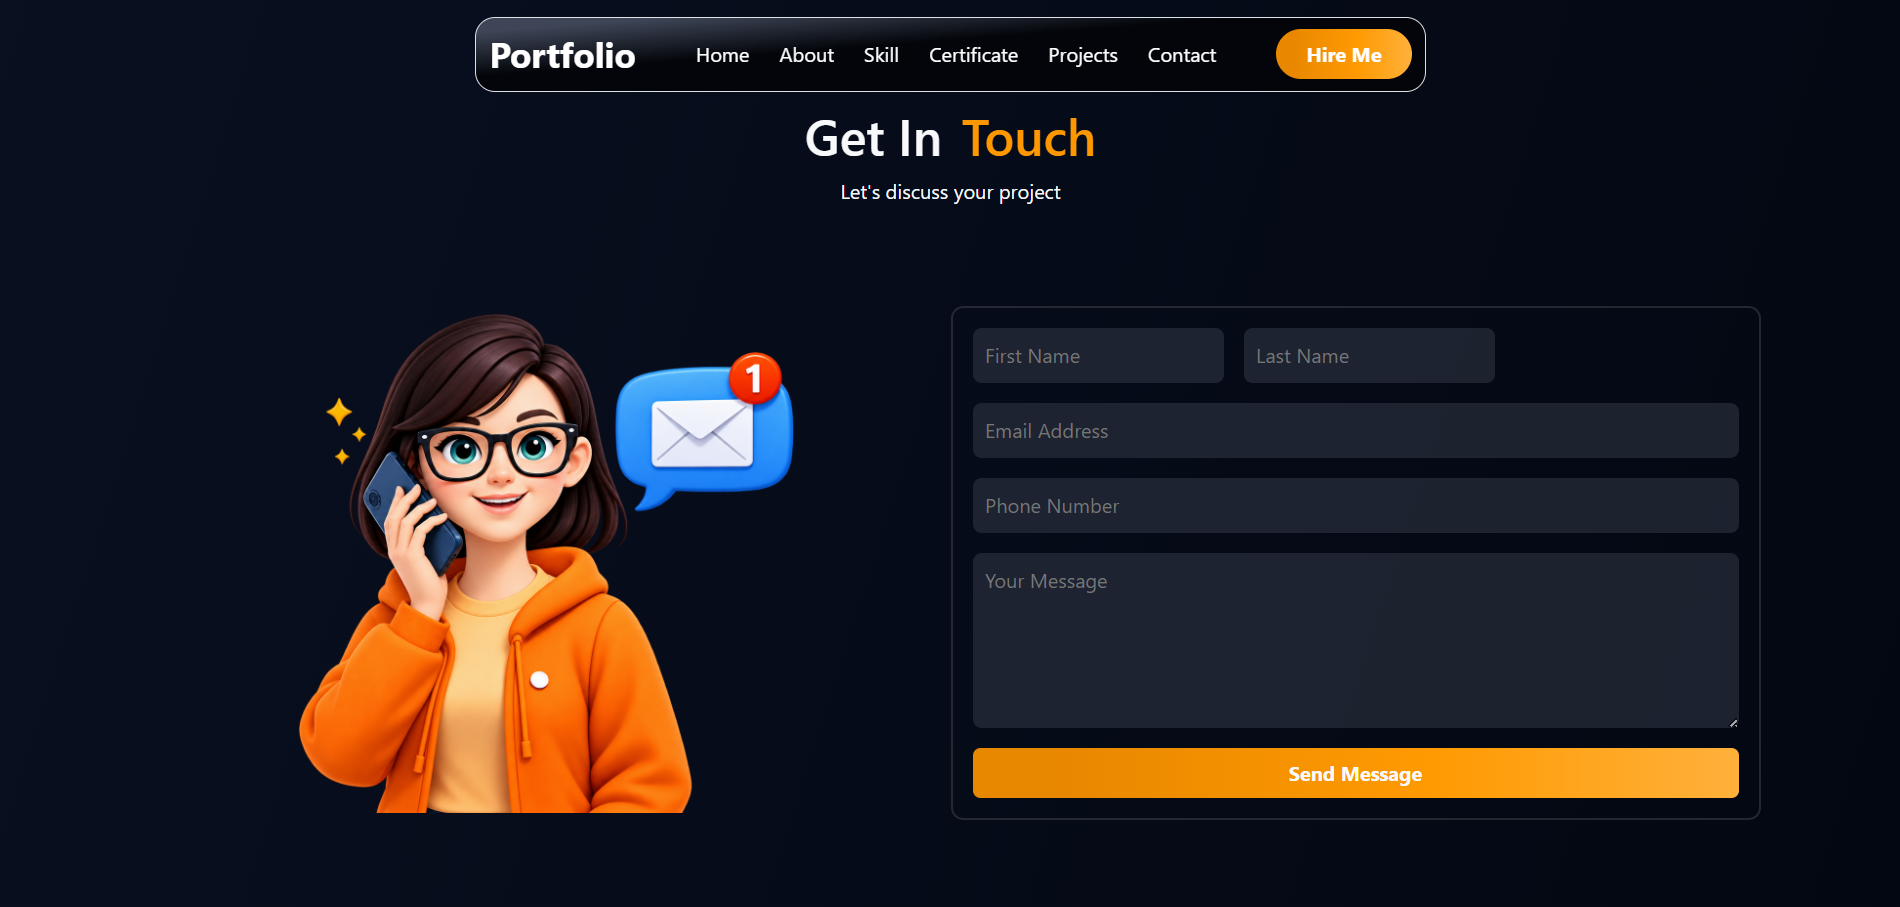
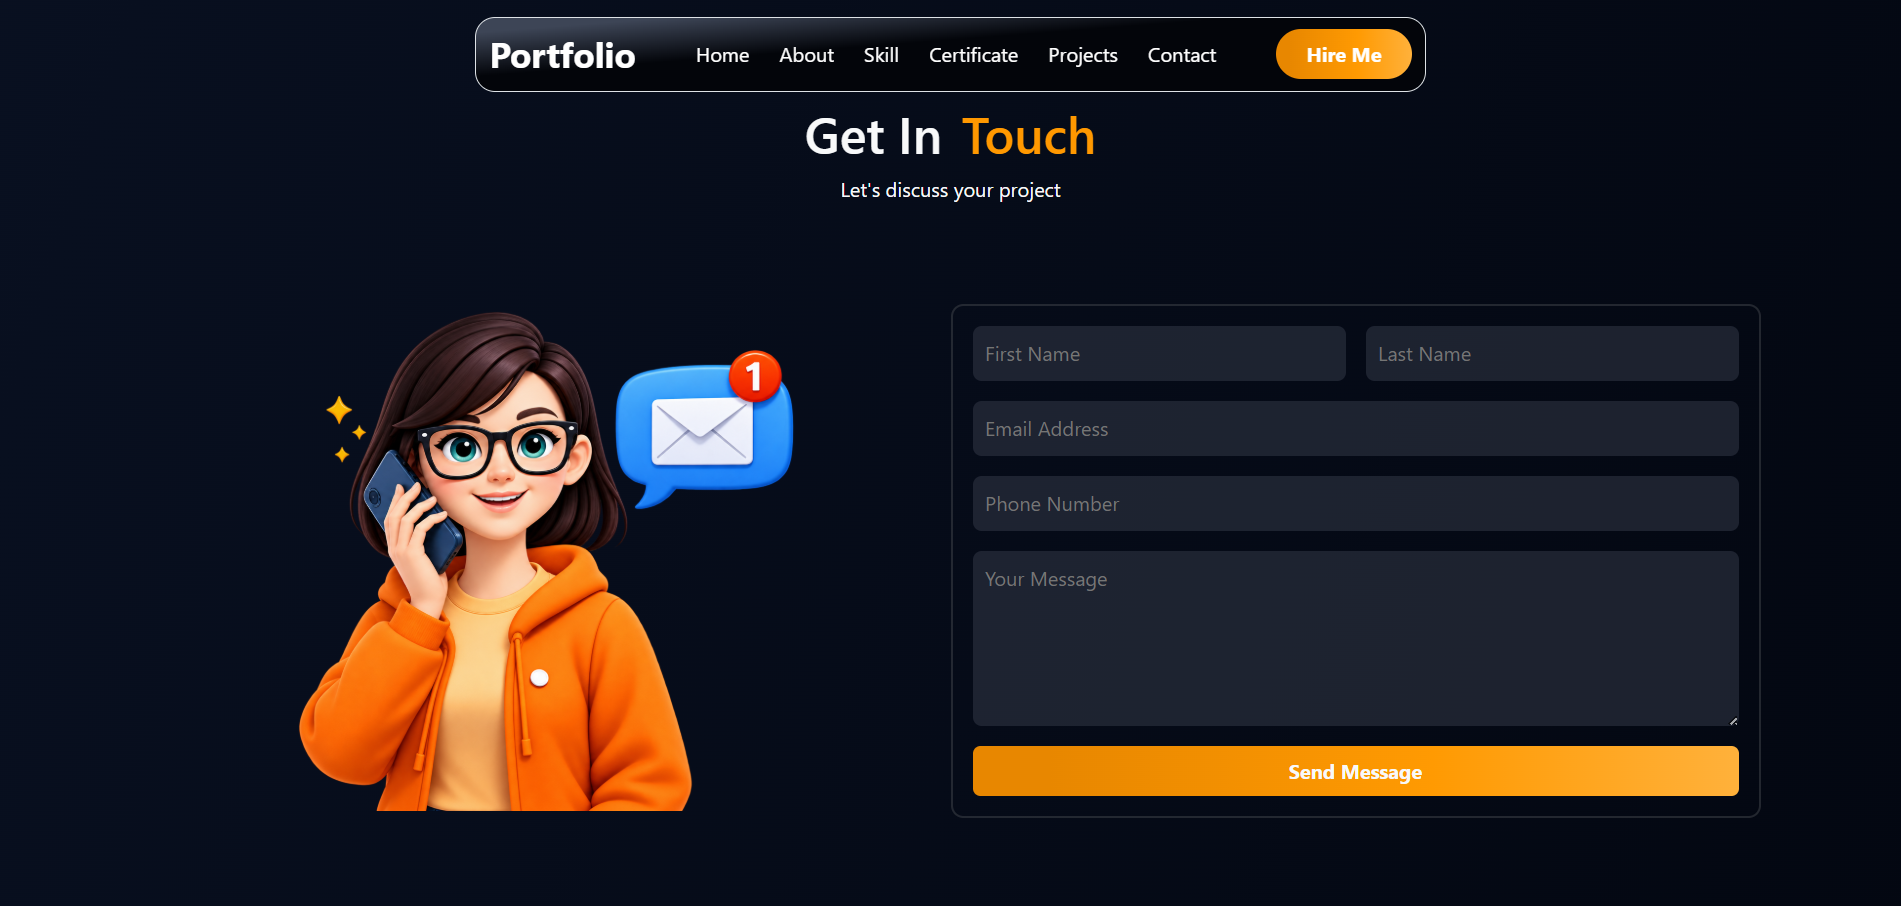
portfolio

diff --git a/portfolio-project-2/src/App.jsx b/portfolio-project-2/src/App.jsx
@@ -395,12 +395,12 @@ function App() {
             <div className="row flex-lg-row-reverse align-items-center g-5 py-5">
 
               <div className="info col-lg-6 d-flex flex-column gap-3 p-3">
-                <div className="d-flex gap-3">
-                  <input type="text" placeholder="First Name" />
-                  <input type="text" placeholder="Last Name" />
+                <div className="d-flex gap-3" >
+                  <input style={{width : "50%"}} type="text" placeholder="First Name" />
+                  <input style={{width : "50%"}} type="text" placeholder="Last Name" />
                 </div>
-                <input type="text" placeholder="Email Address" />
-                <input type="text" placeholder="Phone Number" />
+                <input type="email" placeholder="Email Address" />
+                <input type="number" placeholder="Phone Number" />
                 <textarea name="text" id="" placeholder="Your Message" rows="5"></textarea>
                 <button className="btn-8 border-0 rounded-2 text-light py-2 fw-bold">Send Message</button>
 
